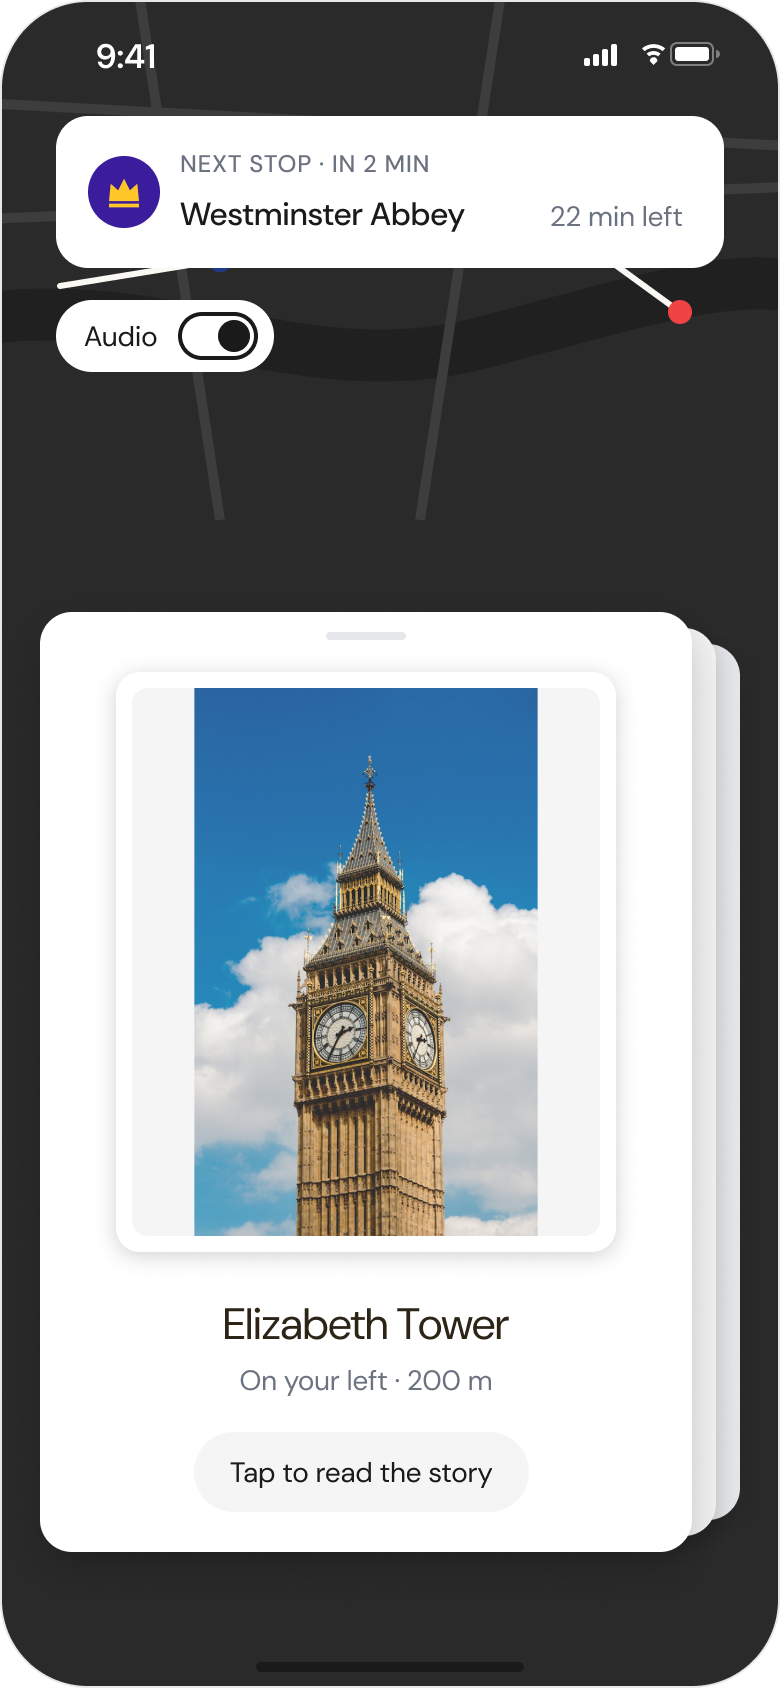
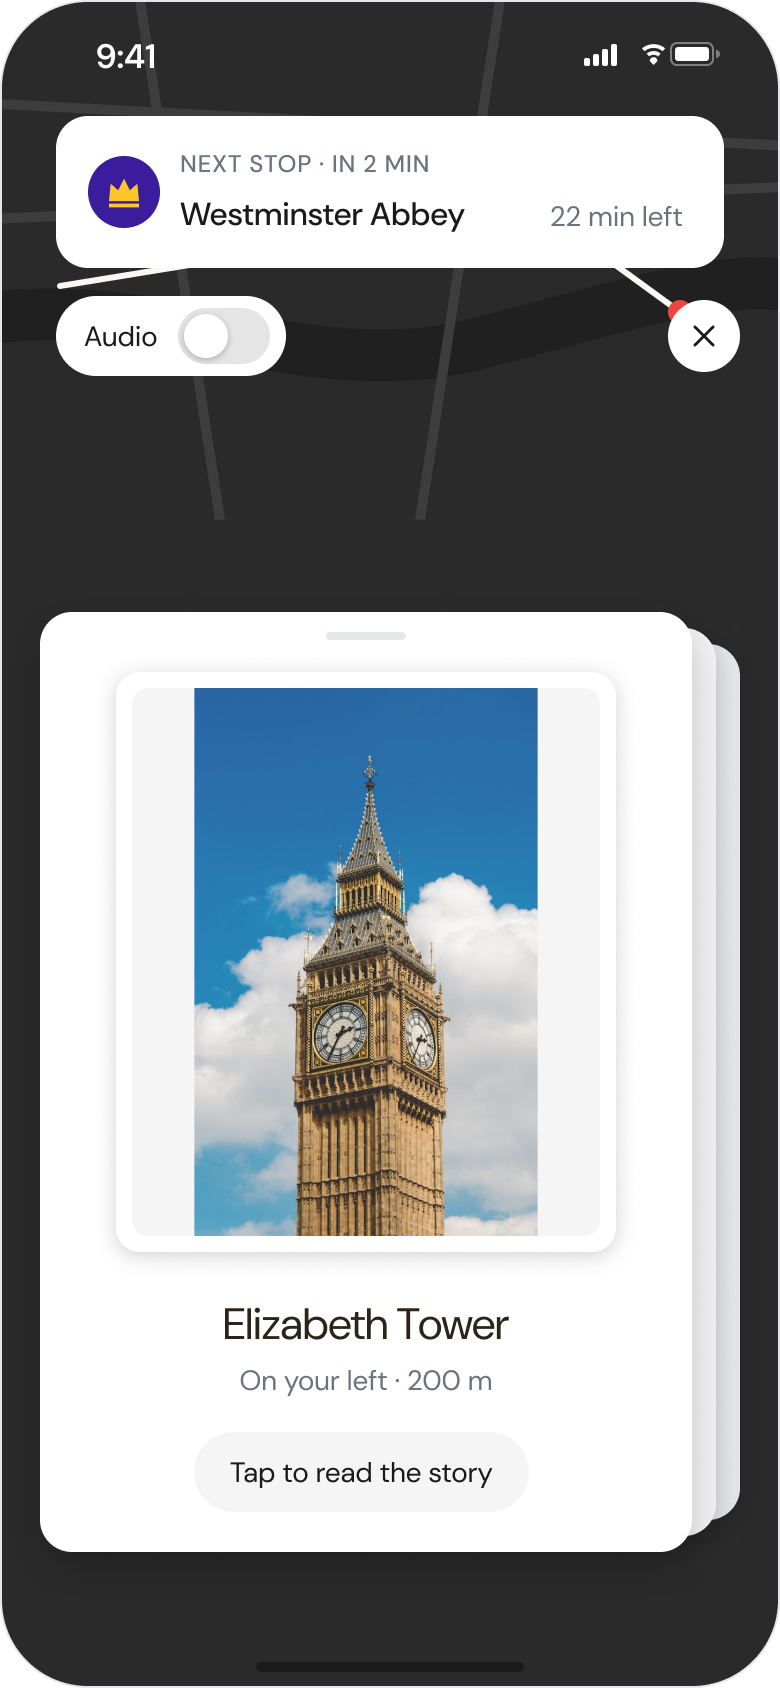
Re-export v2 screens so they match the live app; add a Figma sync rule
The README images showed the old audio toggle, blue landmark dots and the
superseded white theme tiles. The Figma boards now use components that
match the code (PB/Audio switch, PB/Map pin, PB/End ride button), the theme
screen comes from the 05b picker, and every image was re-exported.

CLAUDE.md and AGENTS.md now map each screen to its code and its Figma source
frame, and require Figma to be updated in the same task as any visual change.

Claude-Session: https://claude.ai/code/session_01PjGD56cr8Psn7ggGxxxvdH

Changed region(s): [[0.2154, 0.154, 0.3692, 0.2464], [0.8615, 0.154, 0.9538, 0.2464]]

diff --git a/AGENTS.md b/AGENTS.md
@@ -30,7 +30,7 @@ product and the data pipeline.
 
 ## v2 build status and files
 
-All four v2 screens are built from the "Final direction" boards:
+All four v2 screens are built. Each one's Figma source is in the sync table below.
 
 | Screen | Template | Script |
 |---|---|---|
@@ -61,11 +61,41 @@ All four v2 screens are built from the "Final direction" boards:
 - Figma file "BlackCab App Wireframe", page "★ PassingBy — Design Iterations":
   https://www.figma.com/design/f4HvYvFfbI5Fi7HiI7SMpA/BlackCab-App-Wireframe?node-id=2008-108
   Each screen reads left to right: round 1, round 2, final direction. Build
-  from the boards marked "Final direction".
+  from the frames in the sync table below. Choose Theme comes from "05b",
+  not from the "03c" final board.
 - `docs/design/README.md`: the redesign write-up (testing summary slides,
   final screens). The README and this page use PNG exports from the Figma
   frames "06 · Testing summary" and "07 · Clean screens for GitHub and
   portfolio exports", saved in `docs/images/v2/`. Re-export them when the design changes.
+## Keep code and Figma in sync (required)
+
+The live v2 code is the source of truth. Figma must always show what the code
+draws, because the README and portfolio images are exported from Figma.
+
+| Screen | Code | Figma source frame (page "★ PassingBy — Design Iterations") |
+|---|---|---|
+| Landing, black cab | `templates/v2/index.html` | "Landing Final / Black cab" in 01c |
+| Landing, Uber / private hire | not built (concept) | "Landing Final / Uber · private hire concept" in 01c |
+| Choose Route | `templates/v2/route_mode.html`, `route_selection.js` | "Route Final" in 02c |
+| Choose Theme | `templates/v2/tour_type.html`, `tour_selection.js`, `editions.js` | "Theme v2 / Picker" in 05b |
+| Ride | `templates/v2/tour.html`, `tour_logic.js`, `map_pins.js` | "Map Postcard / 1–3" in 04d |
+
+Shared parts are Figma components on the Components page. Change the component
+when the code changes, and every board updates:
+`PB/Audio switch` (`.v2-audio`, `.v2-switch`), `PB/Map pin` (`map_pins.js`),
+`PB/End ride button` (`.v2-end`), `PB/Theme badge` (`editions.js`).
+
+Rules:
+1. **Any visual change in v2 code** (colour, size, copy, a new or removed
+   element) must update the matching Figma frame or component in the same
+   task. If that can't be done, say so to the user before finishing.
+2. **Before exporting images**, read the current code for each screen and
+   check the Figma frame against it: copy, controls, map pins, route line,
+   badge and buttons. Never export from an old board or an old copy.
+3. Exports are rebuilt from the source frames above. Never edit the copies in
+   "07 · Clean screens" or the slide images by hand.
+4. Round 1 and round 2 boards are a historical record. Leave them unchanged.
+
 - The root `README.md` is the project's portfolio page. It describes v2 and
   links to the v1 README on the `v1-archive` branch. v1 screenshots stay in
   `docs/images/screenshots/`.

diff --git a/CLAUDE.md b/CLAUDE.md
@@ -30,7 +30,7 @@ product and the data pipeline.
 
 ## v2 build status and files
 
-All four v2 screens are built from the "Final direction" boards:
+All four v2 screens are built. Each one's Figma source is in the sync table below.
 
 | Screen | Template | Script |
 |---|---|---|
@@ -61,11 +61,41 @@ All four v2 screens are built from the "Final direction" boards:
 - Figma file "BlackCab App Wireframe", page "★ PassingBy — Design Iterations":
   https://www.figma.com/design/f4HvYvFfbI5Fi7HiI7SMpA/BlackCab-App-Wireframe?node-id=2008-108
   Each screen reads left to right: round 1, round 2, final direction. Build
-  from the boards marked "Final direction".
+  from the frames in the sync table below. Choose Theme comes from "05b",
+  not from the "03c" final board.
 - `docs/design/README.md`: the redesign write-up (testing summary slides,
   final screens). The README and this page use PNG exports from the Figma
   frames "06 · Testing summary" and "07 · Clean screens for GitHub and
   portfolio exports", saved in `docs/images/v2/`. Re-export them when the design changes.
+## Keep code and Figma in sync (required)
+
+The live v2 code is the source of truth. Figma must always show what the code
+draws, because the README and portfolio images are exported from Figma.
+
+| Screen | Code | Figma source frame (page "★ PassingBy — Design Iterations") |
+|---|---|---|
+| Landing, black cab | `templates/v2/index.html` | "Landing Final / Black cab" in 01c |
+| Landing, Uber / private hire | not built (concept) | "Landing Final / Uber · private hire concept" in 01c |
+| Choose Route | `templates/v2/route_mode.html`, `route_selection.js` | "Route Final" in 02c |
+| Choose Theme | `templates/v2/tour_type.html`, `tour_selection.js`, `editions.js` | "Theme v2 / Picker" in 05b |
+| Ride | `templates/v2/tour.html`, `tour_logic.js`, `map_pins.js` | "Map Postcard / 1–3" in 04d |
+
+Shared parts are Figma components on the Components page. Change the component
+when the code changes, and every board updates:
+`PB/Audio switch` (`.v2-audio`, `.v2-switch`), `PB/Map pin` (`map_pins.js`),
+`PB/End ride button` (`.v2-end`), `PB/Theme badge` (`editions.js`).
+
+Rules:
+1. **Any visual change in v2 code** (colour, size, copy, a new or removed
+   element) must update the matching Figma frame or component in the same
+   task. If that can't be done, say so to the user before finishing.
+2. **Before exporting images**, read the current code for each screen and
+   check the Figma frame against it: copy, controls, map pins, route line,
+   badge and buttons. Never export from an old board or an old copy.
+3. Exports are rebuilt from the source frames above. Never edit the copies in
+   "07 · Clean screens" or the slide images by hand.
+4. Round 1 and round 2 boards are a historical record. Leave them unchanged.
+
 - The root `README.md` is the project's portfolio page. It describes v2 and
   links to the v1 README on the `v1-archive` branch. v1 screenshots stay in
   `docs/images/screenshots/`.

diff --git a/docs/design/README.md b/docs/design/README.md
@@ -16,8 +16,8 @@ Each screen has one row on the Figma page, read left to right:
 | Row | Round 1 | Round 2 | Final direction |
 |---|---|---|---|
 | Landing | Four layouts (A–D) | Two versions, plus a bonus that combines B and D | Two entry points: black cab and Uber / private hire |
-| Choose Route | Four layouts | Two versions | Map, time difference and landmark list in one card |
-| Choose Theme | Four layouts | Two versions | Large equal tiles, sorted by landmarks on the route |
+| Choose Route | Four layouts | Two versions | Map, time difference and landmark list in one card, with numbered pins |
+| Choose Theme | Four layouts | Two versions | Large equal tiles (03c), then themed tiles with one colour, glyph and font per theme (05b, built) |
 | In-ride map | Four layouts | Two versions | Full card (04c) and postcard (04d), built as 04d |
 
 Below the rows: the proto-personas, the feedback method, the theme system
@@ -54,8 +54,8 @@ The last slide is a plan. None of it has been run yet.
 |---|---|---|
 | ![](../images/v2/screens/05-ride-map.png) | ![](../images/v2/screens/06-ride-postcard.png) | ![](../images/v2/screens/07-ride-story.png) |
 
-The black cab screens are built in v2. The Uber / private hire screen is a
-design concept and is not built yet.
+The black cab screens are built in v2, and these images match the live code.
+The Uber / private hire screen is a design concept and is not built yet.
 
 ## Still to come
 

diff --git a/README.md b/README.md
@@ -137,7 +137,7 @@ PassingBy transforms London journeys into living history lessons. Passengers get
   <tr>
     <td align="center"><b>1. Where to?</b><br><sub>A short explanation of PassingBy, then the destination. Your location is the start.</sub></td>
     <td align="center"><b>2. Choose a route</b><br><sub><i>Fastest</i>, or <i>PassingBy</i>: the map, the extra minutes and the landmarks you'll pass, side by side.</sub></td>
-    <td align="center"><b>3. Pick a theme</b><br><sub>Equal tiles, sorted by how many landmarks each theme has on your route.</sub></td>
+    <td align="center"><b>3. Pick a theme</b><br><sub>Each theme has its own colour, glyph and font, sorted by landmarks on your route.</sub></td>
     <td align="center"><b>4. Ride</b><br><sub>The next stop sits at the top. Each landmark arrives as a postcard you can minimise to the map.</sub></td>
   </tr>
 </table>
